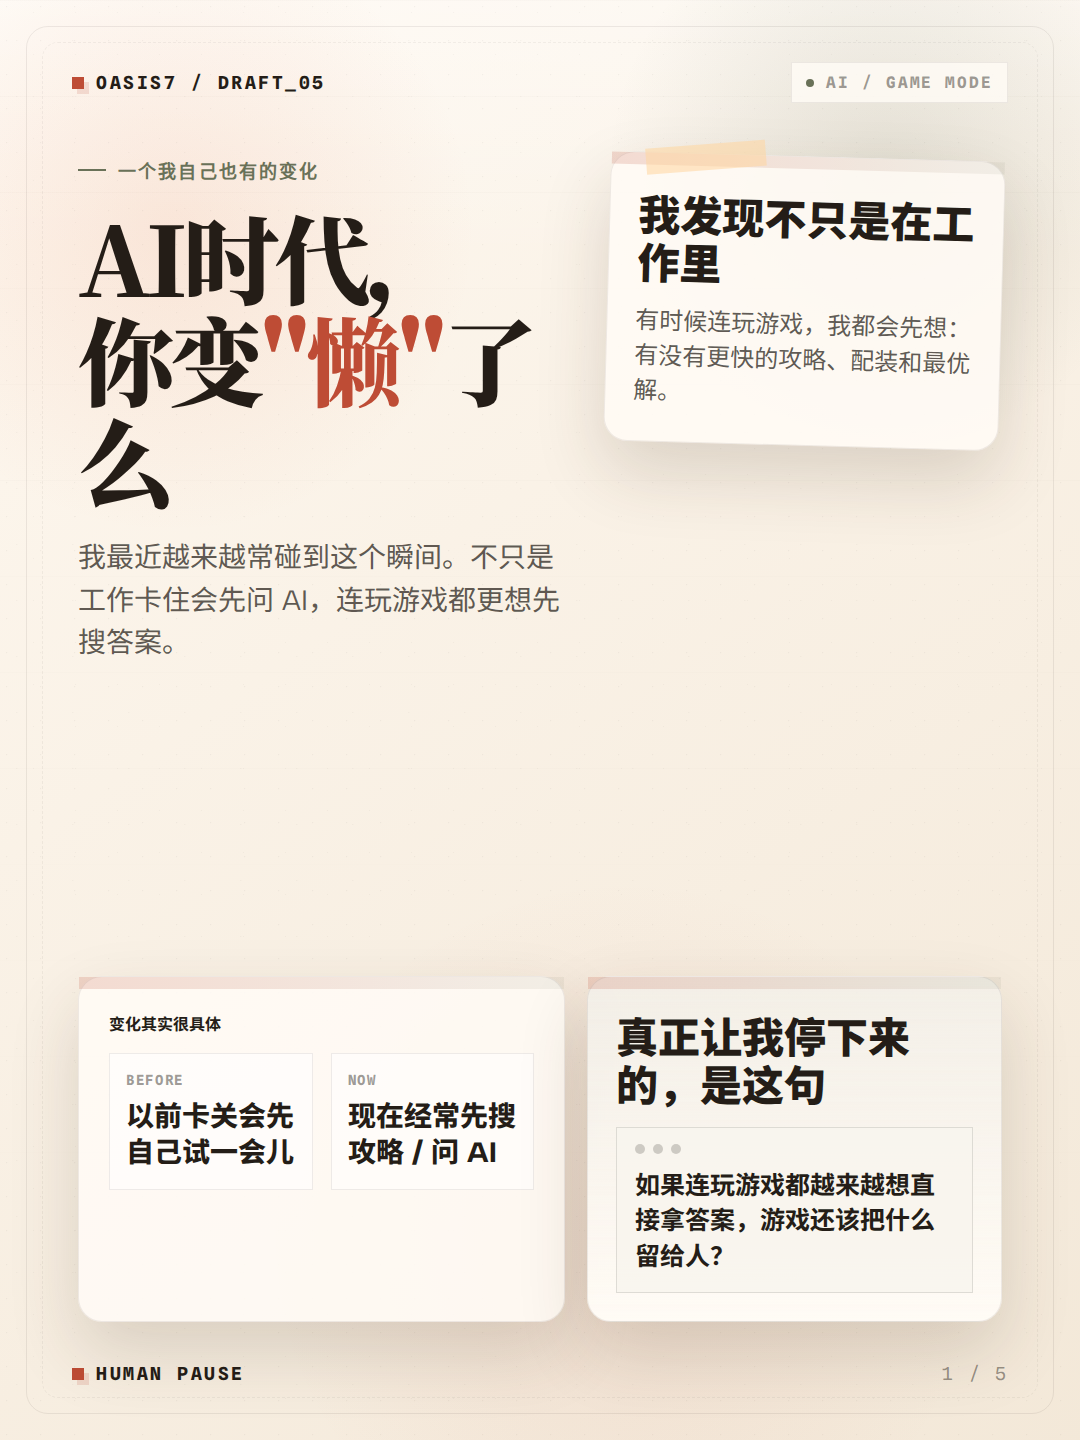
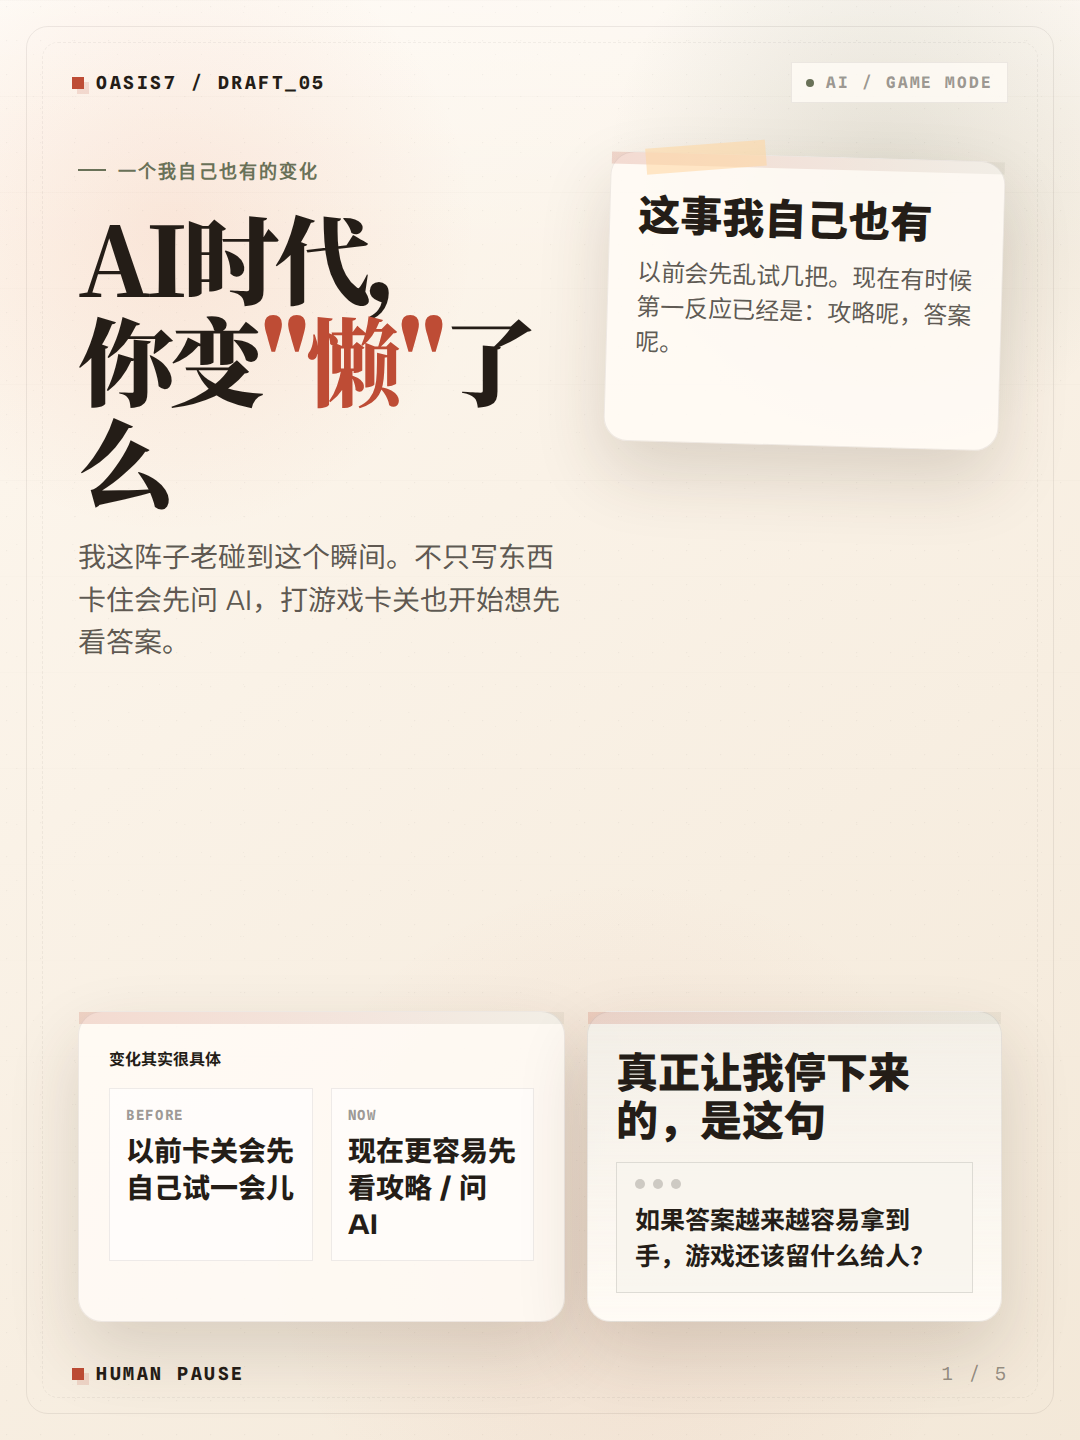
Humanize Xiaohongshu AI laziness copy

diff --git a/site/social/xiaohongshu-ai-laziness-game-mode.html b/site/social/xiaohongshu-ai-laziness-game-mode.html
@@ -784,35 +784,35 @@
         {
           kind: "cover",
           title: 'AI时代，<br />你变<span class="accent">"懒"</span>了么',
-          subtitle: "我最近越来越常碰到这个瞬间。不只是工作卡住会先问 AI，连玩游戏都更想先搜答案。",
-          noteTitle: "我发现不只是在工作里",
-          noteBody: "有时候连玩游戏，我都会先想：有没有更快的攻略、配装和最优解。",
+          subtitle: "我这阵子老碰到这个瞬间。不只写东西卡住会先问 AI，打游戏卡关也开始想先看答案。",
+          noteTitle: "这事我自己也有",
+          noteBody: "以前会先乱试几把。现在有时候第一反应已经是：攻略呢，答案呢。",
           compareLeft: "以前卡关会先自己试一会儿",
-          compareRight: "现在经常先搜攻略 / 问 AI",
-          prompt: "如果连玩游戏都越来越想直接拿答案，游戏还该把什么留给人？",
+          compareRight: "现在更容易先看攻略 / 问 AI",
+          prompt: "如果答案越来越容易拿到手，游戏还该留什么给人？",
         },
         {
           kind: "chat",
-          title: "我确实变懒了",
+          title: "我是真的会偷懒",
           stickyTitle: "先承认这件事",
-          stickyBody: "整理、改字会先找 AI，连打游戏卡关，我现在也更容易先找攻略。",
+          stickyBody: "整理、改字会先找 AI。连打游戏卡关，我现在也更容易先看攻略。",
           userTitle: "以前的停顿",
           userBody: '<span class="strike">等等，我先自己试一下</span>',
           aiTitle: "现在更常见的反应",
-          aiBody: "先搜攻略，或者先让 AI 把 build 和路线理一遍。",
-          tail: "方便是真的。可一旦连试错都想省掉，游戏里有些东西也会一起变薄。",
+          aiBody: "先搜攻略，或者先让 AI 把配装和路线捋一下。",
+          tail: "省事当然爽。可要是连自己试都懒了，游戏那口气也会淡。",
         },
         {
           kind: "allowed",
-          title: '有些懒<br /><span class="subaccent">我觉得没问题</span>',
+          title: '有些省事<br /><span class="subaccent">我能接受</span>',
           stamp: "worth automating",
           metrics: [
             {
-              title: "整理资料",
-              body: "归纳、拉清单、补结构，这些本来就适合提速。",
+              title: "整理",
+              body: "归一下、拉个清单，这些本来就适合提速。",
             },
             {
-              title: "改字润色",
+              title: "改字",
               body: "卡在表述的时候，让 AI 帮我起个头也没什么。",
             },
             {
@@ -821,13 +821,13 @@
             },
           ],
           summary: "这些懒没问题",
-          summaryBody: "因为被接走的主要还是体力活，不是那个决定怎么想的瞬间。",
+          summaryBody: "因为被省掉的主要还是体力活，不是那个“我自己来试”的劲。",
           list: ["整理", "改字", "刷材料"],
         },
         {
           kind: "question",
           title: "但如果 AI 接走的<br />不只是动作",
-          body: "而是连“先自己试一下”“先自己判断一下”这两步也一起接走了，那游戏模式到底还要把什么留给人？",
+          body: "连“先自己试试”“先自己判断一下”这两步都被跳过去了，那游戏还剩什么是一定要你自己来的？",
           ladder: [
             {
               label: "先被接走的",
@@ -837,32 +837,32 @@
             {
               label: "我开始警惕的",
               title: "试错 + 判断",
-              body: "什么时候该停、怎么试、怎么选方向，这部分一丢，游戏就容易只剩答案。",
+              body: "什么时候该停、怎么试、怎么选，这部分一丢，游戏就容易只剩答案。",
             },
           ],
-          sideTitle: "我最近一直在想",
-          sideBody: "游戏是不是不该只继续追求更省事，而要故意把摸索、判断和后果留给玩家自己来扛。",
+          sideTitle: "我在意的是",
+          sideBody: "有些地方还是得留给玩家自己试、自己选、自己扛。不然太像抄作业。",
           tokens: ["摸索感", "判断感", "承担后果"],
         },
         {
           kind: "closing",
           title: "你觉得最该留给人的<br />到底是什么？",
-          body: "如果 AI 让人连玩游戏都越来越想直接拿答案，你会更想把哪一块死死留在人手里？",
+          body: "如果攻略和最优解都越来越容易拿到手，你最不想省掉哪一步？",
           options: [
             {
               title: "摸索感",
-              body: "先自己试、自己绕、自己找到路，这部分不能一下全跳过。",
+              body: "先自己试、自己绕、自己踩坑，这口气不能一下全没了。",
             },
             {
               title: "判断感",
-              body: "谁来决定现在该怎么选，这事不能外包。",
+              body: "这会儿该怎么选，最好还是你自己定。",
             },
             {
               title: "承担后果",
-              body: "选完以后要自己扛，这一下才像在玩。",
+              body: "选错了也得自己吃到，这样才像自己打的。",
             },
           ],
-          footer: "我自己现在会更在意判断和承担后果。你呢？",
+          footer: "我现在最不想省掉的，是后两步。你呢？",
         },
       ];
 

diff --git a/doc/readme/governance/readme-xiaohongshu-ai-laziness-game-mode-post-pack-2026-03-26.md b/doc/readme/governance/readme-xiaohongshu-ai-laziness-game-mode-post-pack-2026-03-26.md
@@ -35,76 +35,65 @@ AI时代，你变"懒"了么
 ## 正文建议
 ```text
 用了 AI 以后，
-我确实变懒了一点。
+我发现自己是真的会偷懒。
 
-而且不只是工作的时候。
-有时候连玩游戏，
-我都会下意识想更省事一点。
+不只是写东西的时候。
+连打游戏也是。
 
 以前卡关了，
-我会自己先试几次，
-乱走一圈，
-或者硬拧一会儿。
+我会先自己乱试几把，
+死几次再说。
 
-现在有些时候，
+现在有时候，
 第一反应已经变成：
 先搜一下攻略，
 或者先问一句 AI，
-先把配装、路线、最优解看完再说。
+先把配装、路线、答案看一眼。
 
-有些懒我觉得没问题。
+有些省事我觉得没问题。
 整理资料、改字、刷材料，
 或者游戏里那些纯刷材料的劳动，
-本来就不值得硬耗。
+本来就挺耗人。
 
-但我最近会在意另一种懒。
+但我越来越在意另一种。
 
-因为一旦省掉的
-不只是动作，
-而是试错、判断，
-甚至做错以后自己承担后果那一下，
-游戏里最有意思的东西
-可能也一起被省掉了。
+如果连
+“我先自己试试”
+这一步都省了，
+游戏好像也会跟着少一截。
 
-你会发现，
-以前那种
-“等等，我先自己试一下”
-“我想看看自己能不能过”
-这种停顿，
-开始变少了。
+因为被跳过去的，
+不只是几个动作。
+还有摸索、判断，
+还有你选错以后那一下别扭。
 
 所以我最近老在想：
-如果 AI 让人连玩游戏
-都越来越想直接拿答案，
-那游戏还应该把什么留给人？
+如果 AI 真的把答案
+递到人脸上了，
+那游戏还该留什么给人？
 
 是摸索感？
 是判断感？
 还是做了选择以后，
 要自己承担后果？
 
-我现在反而会更在意后两者。
+我现在会更在意后两者。
 
-所以对我来说，
-AI 时代下的游戏模式，
-不一定是把所有事都继续做得更自动。
-
-反而是有些地方，
-要故意留给玩家。
-让你自己试，
-自己选，
-自己赌，
-也自己扛那一下后果。
+不然很多游戏最后
+就只剩通关流程了。
+那种
+“这是我自己打出来的”
+感觉，会淡很多。
 
 你会有这种感觉吗？
 用了 AI 之后，
-你觉得自己连玩游戏
-都是从哪一步开始变懒的？
+你打游戏会更想自己试，
+还是更想先看答案？
 ```
 
 ## 评论区引导
 ```text
-如果 AI 让人连玩游戏都越来越想直接拿答案，你觉得最不该省掉的是什么：摸索感、判断感，还是承担后果？
+如果攻略和最优解越来越容易拿到手，你最不想省掉哪一步：自己试、自己判断，还是自己承担后果？
 ```
 
 ## 卡片文案
@@ -117,25 +106,24 @@ AI时代，
 
 ### 第 2 页 / 先承认变化
 ```text
-我确实变懒了
+我是真的会偷懒
 
-而且不只是在工作里
+不只是在工作里
 
-以前卡关会先自己试
-现在会先搜攻略 / 问 AI
+以前卡关会先乱试
+现在更容易先看答案
 ```
 
 ### 第 3 页 / 哪些懒没问题
 ```text
-有些懒
-我觉得没问题
+有些省事
+我能接受
 
 整理资料
 改字
 刷材料
-刷材料
 
-这些本来就不值得硬耗
+这些本来就挺耗人
 ```
 
 ### 第 4 页 / 重点收回游戏模式
@@ -143,18 +131,18 @@ AI时代，
 但如果 AI 接走的
 不只是动作
 
-还有试错和判断
+还有自己试和自己判断
 
 那游戏
-还应该把什么留给人？
+还剩什么是你的？
 ```
 
 ### 第 5 页 / 收束页
 ```text
-你觉得最该留给人的
-是摸索感
-判断感
-还是承担后果？
+你最不想省掉的
+是自己试
+自己判断
+还是自己承担后果？
 ```
 
 ## 封面与视觉建议
@@ -209,6 +197,7 @@ AI时代，
 - 这篇一定要先承认一点真实变化，不要上来就教育别人“人类不能偷懒”。
 - 重点不是批判懒，而是区分“哪些懒没问题，哪些懒会把判断感也带走”。
 - 最好明确提到“连玩游戏也会想先搜攻略 / 看最优解 / 让 AI 总结 build”，不然游戏这一层会显得太后置。
+- 如果还要继续人味化，优先保留“乱试几把”“先看答案”“太像抄作业”这种口语，不要再往“游戏模式”“玩家体验”这种抽象词退回去。
 - 讨论必须往游戏模式收，不要停在泛工具效率和生产力焦虑。
 - 不要写成“我们的游戏已经给出了完整答案”，当前只能保持设计判断层表达。
 - 评论区优先接“最该留给人的是什么”这个问题，不要在评论区扩展成大而泛的 AI 伦理辩论。

diff --git a/doc/devlog/2026-03-26.md b/doc/devlog/2026-03-26.md
@@ -383,3 +383,15 @@
   - `agent-browser screenshot /home/scc/oasis7-codex/site/social/xiaohongshu-ai-laziness-game-mode-slide5.png`
 - 遗留事项：
   - 如果还要继续压字，优先缩第 2 页左上便签和第 4 页副文，不要动第 5 页三个选项框的结构。
+
+## 11:43:27 CST / liveops_community
+- 完成内容：
+  - 按 `humanizer-zh` 再过一轮第五篇文案，把“游戏模式 / 玩家体验 / 最优解”这类偏概念化的说法继续往下压，换成“乱试几把”“先看答案”“太像抄作业”“这口气会淡”这类更像真人会发的小红书口吻。
+  - 顺手修掉第 3 页卡片文案里重复出现的“刷材料”，并把评论区问题改成“自己试 / 自己判断 / 自己承担后果”这种更口语的问法。
+  - 同步覆盖第五篇 HTML 与 PNG，保证图上文字和素材包正文一致。
+- 执行验证：
+  - `agent-browser open http://127.0.0.1:8765/site/social/xiaohongshu-ai-laziness-game-mode.html?slide=2`
+  - `agent-browser open http://127.0.0.1:8765/site/social/xiaohongshu-ai-laziness-game-mode.html?slide=4`
+  - `agent-browser open http://127.0.0.1:8765/site/social/xiaohongshu-ai-laziness-game-mode.html?slide=5`
+- 遗留事项：
+  - 这轮主要是去 AI 腔，不再继续变动视觉结构；如果还要压字，优先改第 4 页长副文，不要再改标题句式。
